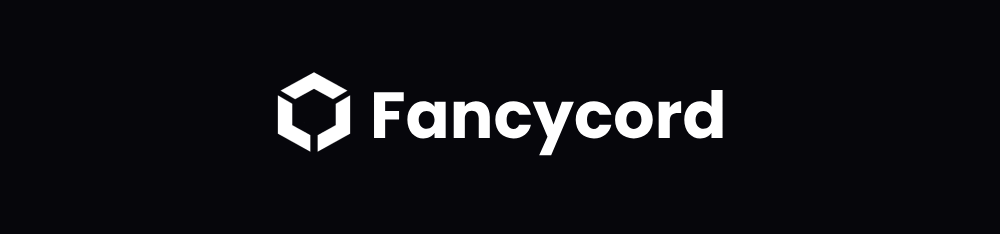
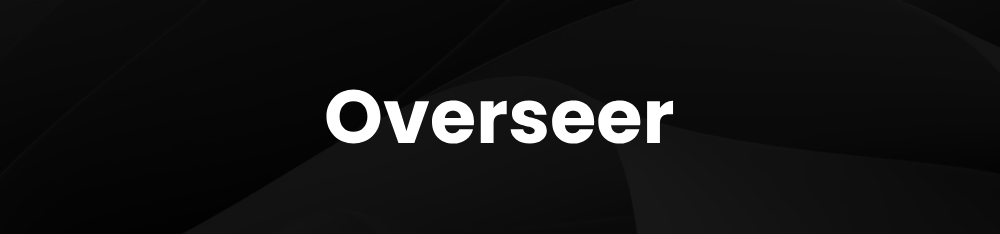
Update assets

Changed region(s): [[0.279, 0.2991, 0.744, 0.688]]

diff --git a/README.md b/README.md
@@ -1,12 +1,16 @@
-# Overseer
+<div align="center">
+  <img src="./assets/images/Banner.png" />
+</div>
 
-## Stack
+---
+
+# Stack
 
 - [**Oceanic.js**](https://oceanic.ws/): A Node.js library for interfacing with Discord
 - [**TypeScript**](https://www.typescriptlang.org/): A language for application scale JavaScript development
 - [**Prisma Client**](https://www.prisma.io/): An auto-generated, type-safe and modern JavaScript/TypeScript ORM for Node.js
 
-## Contribuitors
+# Contribuitors
 
 Thanks to our contributors who help with the development of Overseer
 
